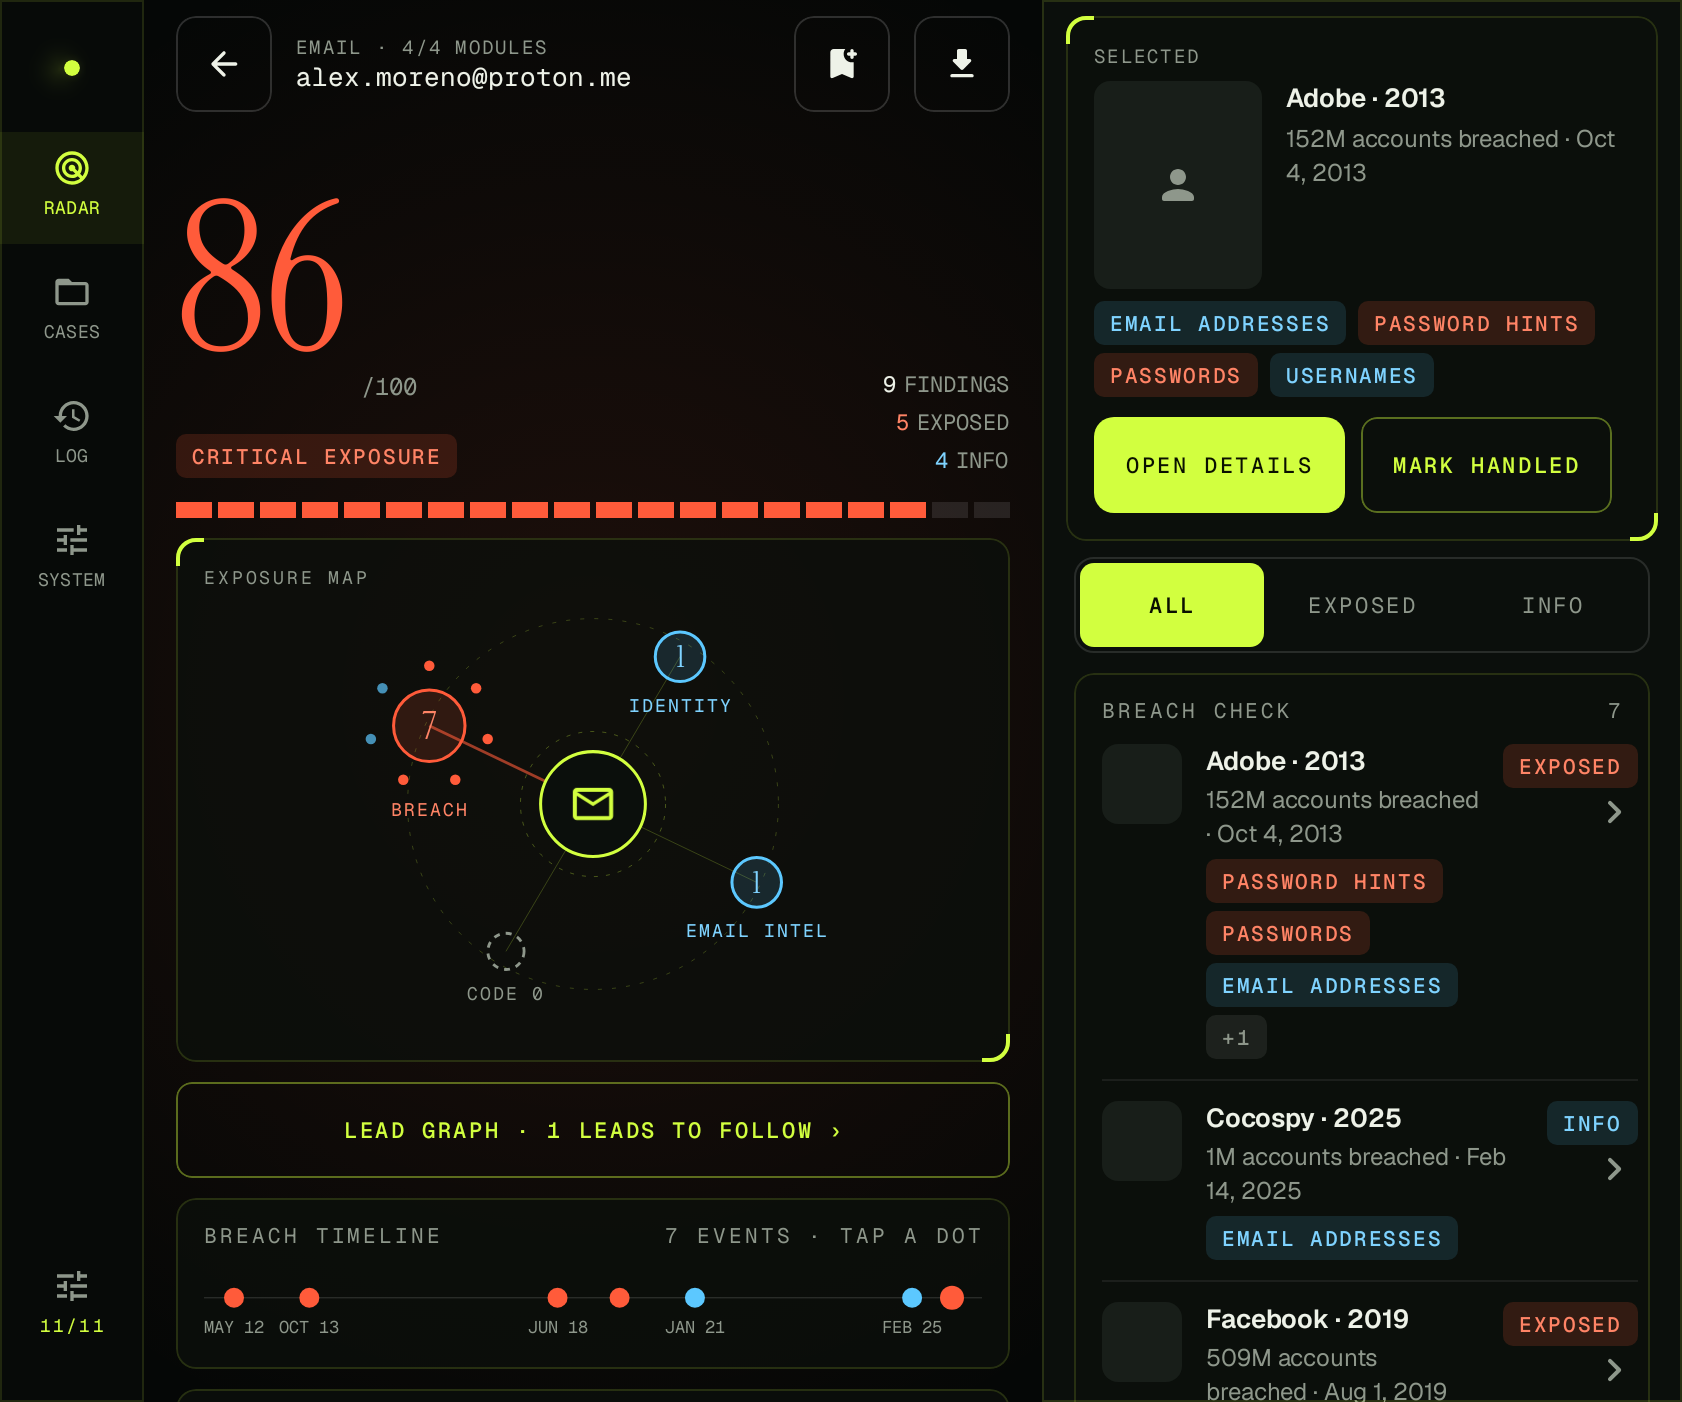
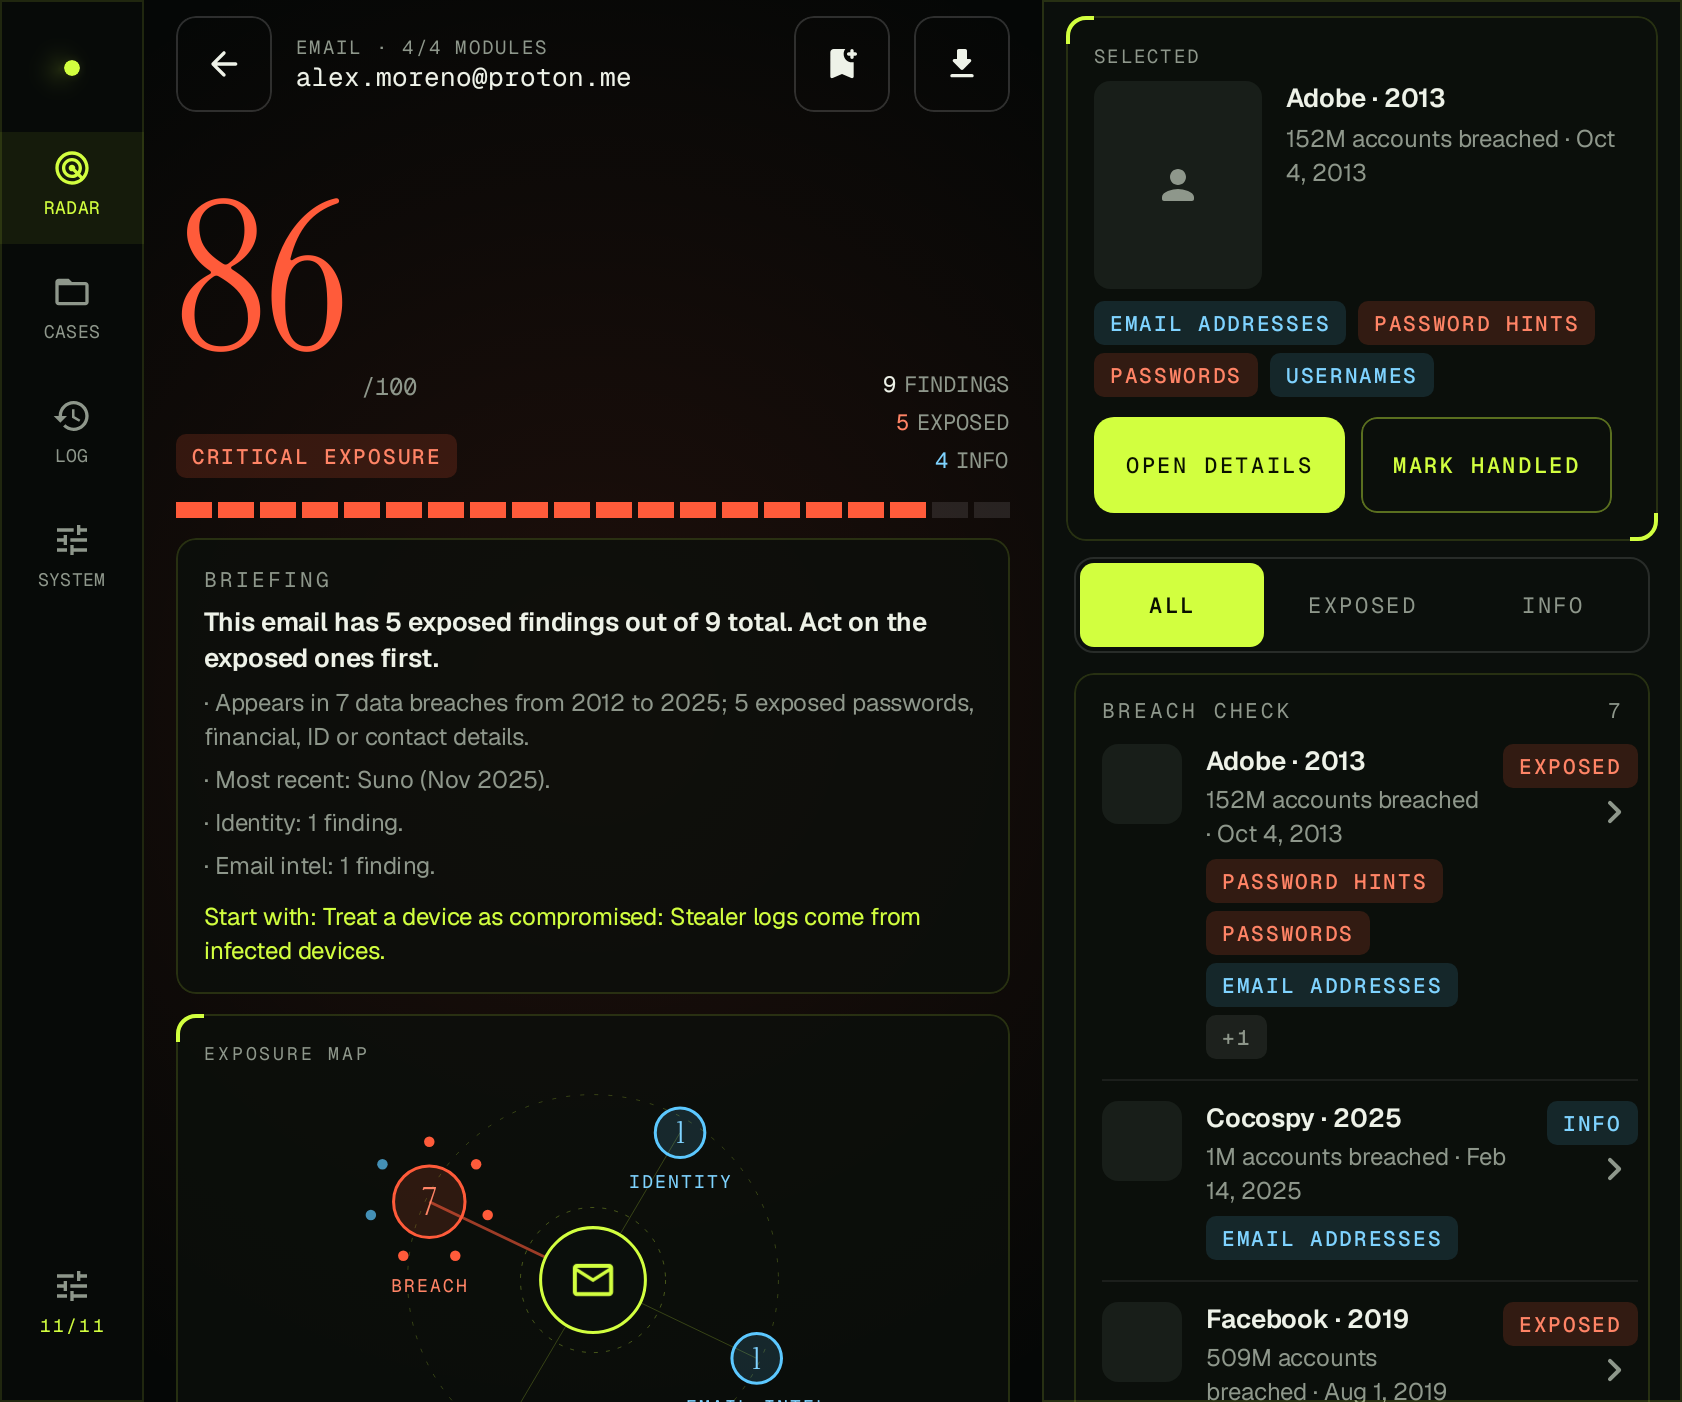
Briefing card: on-device plain-English summary of a scan
Claude-Session: https://claude.ai/code/session_018A3LeNHC25Dd1z2KQ4XMJz

diff --git a/app/src/main/kotlin/vip/ringling/recon/domain/Briefing.kt b/app/src/main/kotlin/vip/ringling/recon/domain/Briefing.kt
@@ -1,0 +1,38 @@
+package vip.ringling.recon.domain
+
+/** A plain-English read-out of a scan: one headline sentence, supporting points and the first thing to do. Templated on-device from the findings, nothing is sent anywhere. */
+data class Briefing(val headline: String, val points: List<String>, val firstStep: String?)
+
+object BriefingBuilder {
+    private fun plural(n: Int, one: String, many: String = one + "s") = "$n ${if (n == 1) one else many}"
+
+    fun build(type: InputType?, findings: List<Finding>, ran: Collection<ModuleId>): Briefing {
+        val scored = findings.filter { it.scorable }
+        val exposed = scored.count { it.severity == Severity.EXPOSED }
+        val breaches = scored.filter { it.module == ModuleId.BREACH }
+        val points = mutableListOf<String>()
+        val events = Exposure.timeline(findings)
+        if (breaches.isNotEmpty()) {
+            val hot = breaches.count { it.severity == Severity.EXPOSED }
+            val span = if (events.size >= 2) " from ${events.first().year} to ${events.last().year}" else events.firstOrNull()?.let { " in ${it.year}" }.orEmpty()
+            points += "Appears in ${plural(breaches.size, "data breach", "data breaches")}$span" + if (hot > 0) "; $hot exposed passwords, financial, ID or contact details." else "; none exposed passwords or financial details."
+            events.lastOrNull()?.let { points += "Most recent: ${it.title.substringBefore(" ·")} (${monthName(it.month)} ${it.year})." }
+        }
+        val other = scored.filter { it.module != ModuleId.BREACH }.groupBy { it.module }.entries.sortedByDescending { e -> e.value.count { it.severity == Severity.EXPOSED } * 100 + e.value.size }
+        other.take(4).forEach { (m, list) ->
+            val hot = list.count { it.severity == Severity.EXPOSED }
+            points += "${Exposure.label(m).lowercase().replaceFirstChar { it.uppercase() }}: ${plural(list.size, "finding")}" + if (hot > 0) ", $hot flagged as exposed." else "."
+        }
+        val failed = findings.count { it.id.endsWith("-error") }
+        if (failed > 0) points += "${plural(failed, "source")} couldn't be reached, so this picture may be incomplete."
+        val what = type?.label?.lowercase() ?: "target"
+        val headline = when {
+            scored.isEmpty() && ran.isNotEmpty() -> "Nothing exposed was found for this $what by the sources that ran."
+            exposed > 0 -> "This $what has ${plural(exposed, "exposed finding")} out of ${scored.size} total. Act on the exposed ones first."
+            else -> "This $what shows ${plural(scored.size, "finding")}, none of them flagged as exposed."
+        }
+        return Briefing(headline, points, Exposure.fixFirst(findings).firstOrNull()?.let { "${it.title}: ${it.detail}" })
+    }
+
+    private fun monthName(m: Int) = listOf("Jan", "Feb", "Mar", "Apr", "May", "Jun", "Jul", "Aug", "Sep", "Oct", "Nov", "Dec")[(m - 1).coerceIn(0, 11)]
+}

diff --git a/app/src/test/kotlin/vip/ringling/recon/domain/BriefingTest.kt b/app/src/test/kotlin/vip/ringling/recon/domain/BriefingTest.kt
@@ -1,0 +1,25 @@
+package vip.ringling.recon.domain
+
+import kotlin.test.Test
+import kotlin.test.assertEquals
+import kotlin.test.assertTrue
+
+class BriefingTest {
+    private fun breach(id: String, sev: Severity, date: String) = Finding("BREACH-hibp-$id", ModuleId.BREACH, "$id · 2020", "d", sev, facts = listOf(Fact("Breach date", date)), tags = listOf("Passwords"))
+
+    @Test fun summarisesBreachesAndPicksAFirstStep() {
+        val b = BriefingBuilder.build(InputType.EMAIL, listOf(breach("Adobe", Severity.EXPOSED, "Oct 4, 2013"), breach("Zynga", Severity.INFO, "Sep 12, 2019")), setOf(ModuleId.BREACH))
+        assertTrue("1 exposed finding" in b.headline, b.headline)
+        assertTrue(b.points.first().contains("2 data breaches from 2013 to 2019"), b.points.first())
+        assertTrue(b.points.any { it.startsWith("Most recent: Zynga") })
+        assertTrue(b.firstStep != null)
+    }
+
+    @Test fun cleanScansSaySoAndFailuresAreAdmitted() {
+        val clean = BriefingBuilder.build(InputType.DOMAIN, emptyList(), setOf(ModuleId.DOMAIN))
+        assertTrue(clean.headline.startsWith("Nothing exposed"))
+        val failed = BriefingBuilder.build(InputType.EMAIL, listOf(Finding("BREACH-hibp-error", ModuleId.BREACH, "x unavailable", "d", Severity.INFO)), setOf(ModuleId.BREACH))
+        assertTrue(failed.points.any { "couldn't be reached" in it })
+        assertEquals(null, clean.firstStep)
+    }
+}

diff --git a/app/src/main/kotlin/vip/ringling/recon/ui/results/Briefing.kt b/app/src/main/kotlin/vip/ringling/recon/ui/results/Briefing.kt
@@ -1,0 +1,29 @@
+package vip.ringling.recon.ui.results
+
+import androidx.compose.foundation.layout.Arrangement
+import androidx.compose.foundation.layout.Column
+import androidx.compose.foundation.layout.fillMaxWidth
+import androidx.compose.foundation.layout.padding
+import androidx.compose.material3.MaterialTheme
+import androidx.compose.material3.Text
+import androidx.compose.runtime.Composable
+import androidx.compose.ui.Modifier
+import androidx.compose.ui.unit.dp
+import vip.ringling.recon.domain.Briefing
+import vip.ringling.recon.ui.signal.HairPanel
+import vip.ringling.recon.ui.signal.SignalLabel
+import vip.ringling.recon.ui.theme.ReconTheme
+
+/** Plain-English summary card at the top of the exposure screen. */
+@Composable
+fun BriefingCard(b: Briefing, modifier: Modifier = Modifier) {
+    val sig = ReconTheme.signal
+    HairPanel(modifier.fillMaxWidth()) {
+        Column(Modifier.padding(14.dp), verticalArrangement = Arrangement.spacedBy(6.dp)) {
+            SignalLabel("Briefing")
+            Text(b.headline, color = sig.text, style = MaterialTheme.typography.titleSmall)
+            b.points.forEach { Text("· $it", color = sig.muted, style = MaterialTheme.typography.bodySmall) }
+            b.firstStep?.let { Text("Start with: $it", color = sig.signal, style = MaterialTheme.typography.bodySmall, modifier = Modifier.padding(top = 4.dp)) }
+        }
+    }
+}

diff --git a/app/src/main/kotlin/vip/ringling/recon/ui/results/ResultsScreen.kt b/app/src/main/kotlin/vip/ringling/recon/ui/results/ResultsScreen.kt
@@ -171,6 +171,7 @@ fun ExposureScreen(state: ResultsUiState, actions: ResultsActions, modifier: Mod
                 }
             }
             item { TickBar(ceil(score / 5.0).toInt().coerceIn(0, 20), tone = tone, modifier = Modifier.padding(top = 2.dp)) }
+            if (state.findings.isNotEmpty()) item(key = "briefing") { BriefingCard(vip.ringling.recon.domain.BriefingBuilder.build(input?.type, state.findings, state.statuses.keys)) }
             item {
                 BracketPanel(Modifier.fillMaxWidth().height(262.dp)) {
                     OrbitGraph(input?.type?.icon() ?: ModuleId.BREACH.icon(), input?.raw.orEmpty(), nodes, Modifier.fillMaxSize(), onNode = { sheet = SheetFor.Module(it.module, it.label) }, scanning = state.running)

diff --git a/CLAUDE.md b/CLAUDE.md
@@ -196,6 +196,7 @@ Private, sideloaded app. Repo: the GitHub repo this was cloned from (its owner i
 ## Wow pass (added 2026-10-17)
 - Motion: `RiskNumeral` counts up (and glides on change); `OrbitGraph` nodes grow in staggered as each module first reports, and a radar sweep circles the target while `scanning` (scan running). All of it stays still when the system's animations are off (`rememberAnimationsEnabled`).
 - **Lead graph** (`domain/EntityGraph.kt`, `ui/results/EntityGraphScreen.kt`): full-screen pan/zoom dialog, target -> modules -> leads, built ONLY from findings' `pivots` (a lead shows under every module that listed it; target, DORKS excluded; max 40). Tap a lead -> "Search this" pivots via `ResultsActions.onPivot`. Button on the exposure screen when there are leads. Tests: `EntityGraphTest`.
+- **Briefing** (`domain/Briefing.kt` `BriefingBuilder`, `ui/results/Briefing.kt`): templated plain-English summary card on the exposure screen (headline, breach span/most recent, per-module counts, unreachable sources, "Start with" = first fix-first step). Pure function of findings; tests in `BriefingTest`.
 - Decided against more: backend/off-device features. Still ideas: dossier PDF cover, correlation timeline, on-device "what to fix first" summary.
 
 ## Open items / notes
